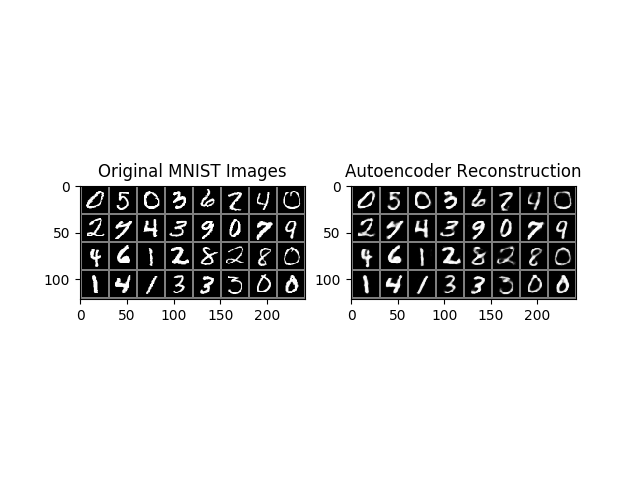
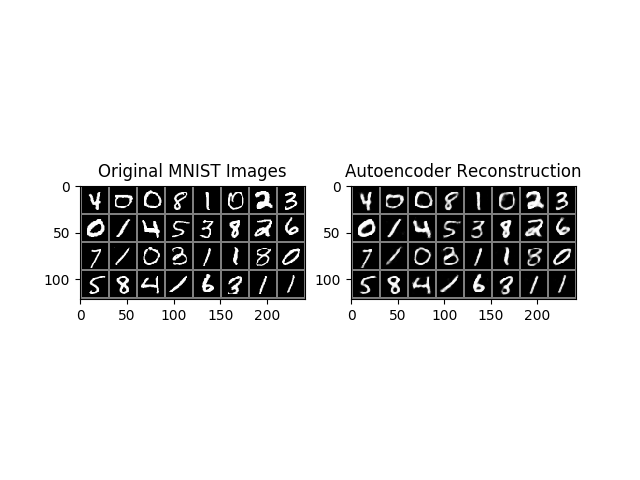
add conv autoencoder

Changed region(s): [[0.5625, 0.375, 0.9062, 0.625], [0.125, 0.375, 0.4688, 0.625]]

diff --git a/conv-autoencoder.py b/conv-autoencoder.py
@@ -1,10 +1,12 @@
 import warnings
 warnings.filterwarnings('ignore')
-import os
+import os, datetime
 os.environ['CUDA_VISIBLE_DEVICES'] = '1'
 
 import torch
+import torchvision
 import data_utils
+import matplotlib.pyplot as plt
 
 from torch import nn
 from torch.autograd import Variable
@@ -17,5 +19,110 @@ class ConvAutoencoder(nn.Module):
         super(ConvAutoencoder, self).__init__()
         self.encoder = nn.Sequential(
             nn.Conv2d(1, 16, 3, padding=1),
-            nn.MaxPool2d(2, )
+            nn.ReLU(inplace=True),
+            nn.MaxPool2d(2),
+            nn.Conv2d(16, 8, 3, padding=1),
+            nn.ReLU(inplace=True),
+            nn.MaxPool2d(2)
         )
+
+        self.decoder = nn.Sequential(
+            nn.Conv2d(8, 8, 3, padding=1),
+            nn.ReLU(inplace=True),
+            nn.UpsamplingBilinear2d(scale_factor=2),
+            nn.Conv2d(8, 16, 3, padding=1),
+            nn.ReLU(inplace=True),
+            nn.UpsamplingBilinear2d(scale_factor=2),
+            nn.Conv2d(16, 1, 3, padding=1),
+            nn.Tanh()
+        )
+
+    def forward(self, x):
+        x = self.encoder(x)
+        x = self.decoder(x)
+        return x
+
+def model_training(autoencoder, train_loader, epoch):
+    loss_metric = nn.MSELoss()
+    optimizer = torch.optim.Adam(autoencoder.parameters(), lr=LEARNING_RATE, weight_decay=WEIGHT_DECAY)
+
+    autoencoder.train()
+    for i, data in enumerate(train_loader):
+        optimizer.zero_grad()
+        images, _ = data
+        images = Variable(images)
+
+        if cuda: images = images.to(device)
+        outputs = autoencoder(images)
+        loss = loss_metric(outputs, images)
+        loss.backward()
+        optimizer.step()
+        if (i + 1) % LOG_INTERVAL == 0:
+            print('Epoch [{}/{}] - Iter[{}/{}], MSE loss:{:.4f}'.format(
+                epoch + 1, EPOCHS, i + 1, len(train_loader.dataset) // BATCH_SIZE, loss.item()
+            ))
+
+def evaluation(autoencoder, test_loader):
+    total_loss = 0
+    loss_metric = nn.MSELoss()
+    autoencoder.eval()
+    for i, data in enumerate(test_loader):
+        images, _ = data
+        images = Variable(images)
+        if cuda: images = images.to(device)
+        outputs = autoencoder(images)
+        loss = loss_metric(outputs, images)
+        total_loss += loss * len(images)
+    avg_loss = total_loss / len(test_loader.dataset)
+
+    print('\nAverage MSE Loss on Test set: {:.4f}'.format(avg_loss))
+
+    global BEST_VAL
+    if TRAIN_SCRATCH and avg_loss < BEST_VAL:
+        BEST_VAL = avg_loss
+        torch.save(autoencoder.state_dict(), './history/conv-autoencoder.pt')
+        print('Save Best Model in HISTORY\n')
+
+
+if __name__ == '__main__':
+    EPOCHS = 100
+    BATCH_SIZE = 128
+    LEARNING_RATE = 1e-3
+    WEIGHT_DECAY = 1e-5
+    LOG_INTERVAL = 100
+    TRAIN_SCRATCH = False       # whether to train a model from scratch
+    BEST_VAL = float('inf')     # record the best val loss
+
+    train_loader, test_loader = data_utils.load_mnist(BATCH_SIZE)
+
+    conv_autoencoder = ConvAutoencoder()
+    if cuda: conv_autoencoder.to(device)
+
+    if TRAIN_SCRATCH:
+        for epoch in range(EPOCHS):
+            starttime = datetime.datetime.now()
+            model_training(conv_autoencoder, train_loader, epoch)
+            endtime = datetime.datetime.now()
+            print(f'Train a epoch in {(endtime - starttime).seconds} seconds')
+            # evaluate on test set and save best model
+            evaluation(conv_autoencoder, test_loader)
+        print('Trainig Complete with best validation loss {:.4f}'.format(BEST_VAL))
+    else:
+        conv_autoencoder.load_state_dict(torch.load('./history/conv-autoencoder.pt'))
+        evaluation(conv_autoencoder, test_loader)
+
+        conv_autoencoder.cpu()
+        dataiter = iter(train_loader)
+        images, _ = next(dataiter)
+        images = Variable(images[:32])
+        outputs = conv_autoencoder(images)
+
+        # plot and save original and reconstruction images for comparisons
+        plt.figure()
+        plt.subplot(121)
+        plt.title('Original MNIST Images')
+        data_utils.imshow(torchvision.utils.make_grid(images))
+        plt.subplot(122)
+        plt.title('Autoencoder Reconstruction')
+        data_utils.imshow(torchvision.utils.make_grid(outputs.data))
+        plt.savefig('./reconstruct_images/conv-autoencoder.png')

diff --git a/simple-autoencoder.py b/simple-autoencoder.py
@@ -6,12 +6,10 @@ os.environ['CUDA_VISIBLE_DEVICES'] = '0'
 import torch
 import torchvision
 import data_utils
-import matplotlib
 import matplotlib.pyplot as plt
 
 from torch import nn
 from torch.autograd import Variable
-from torchvision.utils import save_image
 
 cuda = torch.cuda.is_available()
 device = torch.device('cuda:0' if cuda else 'cpu')
@@ -58,8 +56,9 @@ def model_training(autoencoder, train_loader, epoch):
         loss.backward()
         optimizer.step()
         if (i + 1) % LOG_INTERVAL == 0:
-            print('Epoch [{}/{}] - Iter[{}/{}], MSE loss:{:.4f}'
-                  .format(epoch + 1, EPOCHS, i + 1, len(train_loader.dataset) // BATCH_SIZE, loss.item()))
+            print('Epoch [{}/{}] - Iter[{}/{}], MSE loss:{:.4f}'.format(
+                epoch + 1, EPOCHS, i + 1, len(train_loader.dataset) // BATCH_SIZE, loss.item()
+            ))
 
 def evaluation(autoencoder, test_loader):
     total_loss = 0
@@ -116,7 +115,7 @@ if __name__ == '__main__':
 
         autoencoder.cpu()
         dataiter = iter(train_loader)
-        images, labels = next(dataiter)
+        images, _ = next(dataiter)
         images = Variable(images[:32])
         outputs = autoencoder(images.view(images.size(0), -1))
 

diff --git a/data_utils.py b/data_utils.py
@@ -1,18 +1,15 @@
 import numpy as np
-import matplotlib
 import matplotlib.pyplot as plt
-
-import torchvision
 import torchvision.transforms as transforms
 
 from torchvision import datasets
 from torch.utils import data
 
 def load_mnist(BATCH_SIZE=32):
-    transform = transforms.Compose(
-        [transforms.ToTensor(),
-         transforms.Normalize((0.5, 0.5, 0.5), (0.5, 0.5, 0.5))]
-    )
+    transform = transforms.Compose([
+        transforms.ToTensor(),
+        transforms.Normalize((0.5, 0.5, 0.5), (0.5, 0.5, 0.5))
+    ])
 
     trainset = datasets.MNIST(root='./data', train=True, download=True, transform=transform)
     trainloader = data.DataLoader(trainset, batch_size=BATCH_SIZE, shuffle=True)

diff --git a/README.md b/README.md
@@ -20,6 +20,7 @@ Here I will list some results recorded in my experiments or analysis just for si
 | Methods | MSE Loss (MNIST or CIFAR-10) |
 | :------: | :------: |
 | Simple Autoencoder | 0.0318 (MNIST) |
+| Convolutional Autoencoder | 0.0223 (MNIST) |
 
 # How To Run
 
